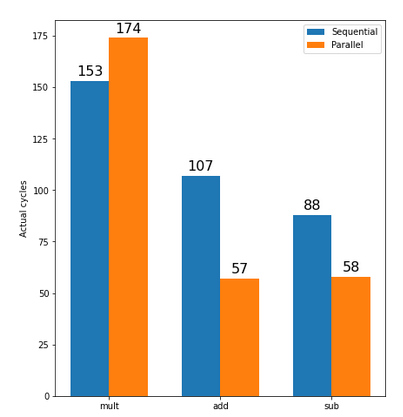
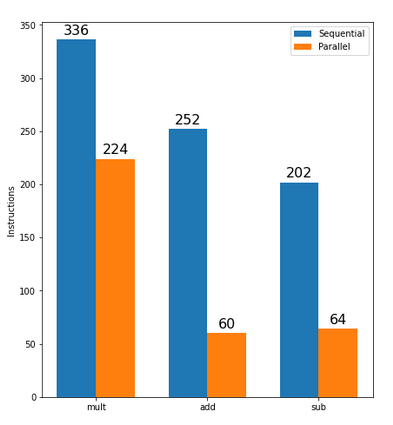
abstract draft

Changed region(s): [[0.0, 0.0312, 0.9771, 0.9976]]

diff --git a/abstract.md b/abstract.md
@@ -1,5 +1,9 @@
 # Residue Number System (RNS) - A faster approach to computing
 
+<center>Théo PETIT, IAA/IMATH - University of Toulon</center>
+
+<center>Summer 2021</center>
+
 ## Abstract
 
 Computing is about speed, especially when dealing whith very large number (hundreths of digits). When you can improve hardware to compute faster, playing wih reprentations of those numbers can be a great way to tackle physical barriers. Systems such as RNS are about exploring new number representations to fasten basic compuations (addition and multiplication).
@@ -9,7 +13,7 @@ When it comes to protect sensible data, one company need to ensure his encryptio
 
 Cryptography, computation, modulo operation.
 
-# Keywords
+## Keywords
 
 Hardware limitation, number systems, performance by parallel computing
 
@@ -29,12 +33,24 @@ We implemented this computation method in C language, firstly in a sequential wa
 
 ## Results and conclusion
 
-```
-![result.png](./result.png)
-```
+As we see on the following figure, the parallel computing aspect of the new algorithm is far better than the sequential one. The parallel version droping by a factor of 4 when computing addition.
+
+![result](results/result.png)
 
 ## Related work
 
 AMNS (an other number representation) presentation (way more difficult...)
 
 AVX vector usage (mostly intel)
+
+## Implications
+
+Despite this computing method being far better than the usual algorithm, the representation might be a limiting factor. The computing tool we are using is an aspect of Intel's processing unit that is still very limited. As use case for the everyday customer is close to non-existant, it is very unlikely that Intel manufactures better hardware for our algorithm to be efficient. 
+
+## Bibliography
+
+[1] - Residue Number System Wikipedia page -_https://en.wikipedia.org/wiki/Residue_number_system_
+
+[2] - Efficient modular operations using the adapted modular number system - by Laurent-Stéphane Didier, Fangan-Yssouf Dosso & Pascal Véron
+
+[3] - # Efficient Modular Arithmetic in Adapted Modular Number System Using Lagrange Representation - by C. Nègre & Thomas Plantard
